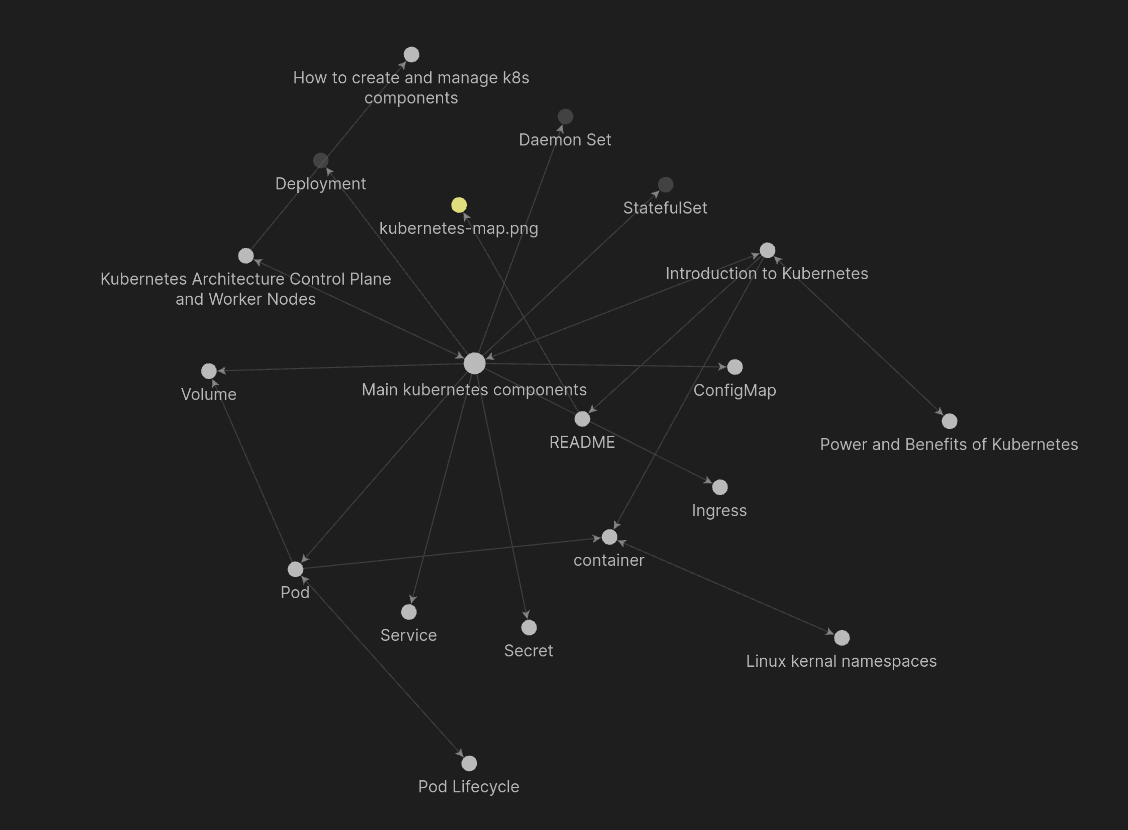
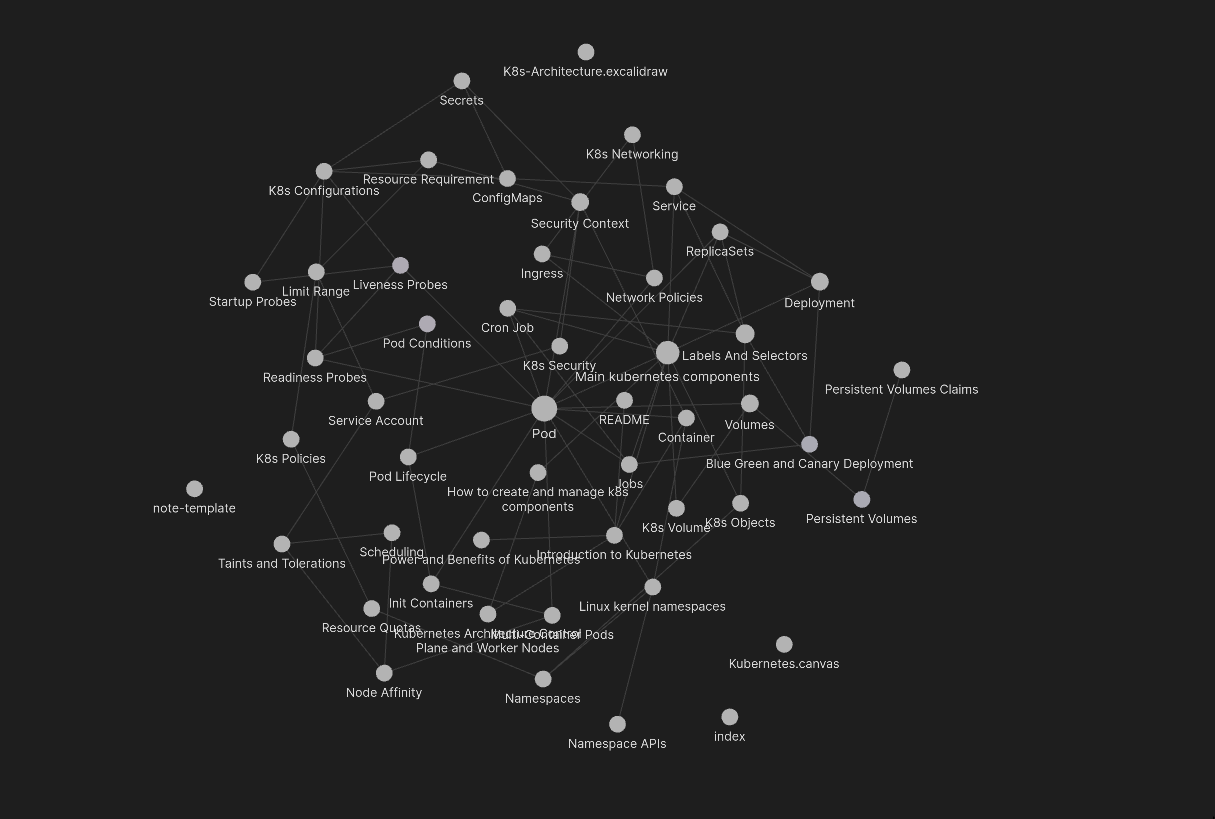
vault backup: 2025-05-14 22:03:36

diff --git a/Networking/Network Policies.md b/Networking/Network Policies.md
@@ -1,6 +1,107 @@
-
+___
+- Network Policies allows you to control how [[Pod]] communicate with each other and with other network entities
+___
+## Definitions:
+- Ingress traffic: Traffic coming into a pod
+- Egress traffic: Traffic leaving a pod
 
 ___
-⬅ [[]] | [[]] ➡
+## Why Network Policies?
+- By default, Kubernetes allows all traffic between pods, but by defining network policies can let you restrict this communication.
+- Let’s say the team wants to ensure:
+	- The frontend cannot access the database directly.
+	- Only the API server should be able to talk to the DB on port 3306.
+- This is where Network Policies comes into play. They allow you to:
+	- Define rules about who can send traffic to a pod (Ingress).    
+	- Define rules about where a pod can send traffic (Egress).
+___
+## How Network Policies Work
+
+- Network Policies are defined using:
+	- `podSelector`: Which pods the policy applies to
+	- `policyTypes`: Either `Ingress`, `Egress`, or both
+	- `rules`: Specific rules that allow traffic based on pod labels and ports
+- Important:
+	- Policies deny all traffic by default unless it is explicitly allowed.
+___
+## Example Use Case
+To allow only API server to talk to the DB server on port 3306:
+1. Label the DB server: `server=db`
+2. Label the API server: `server=api`
+3. Create a NetworkPolicy like:
+    
+
+```yaml
+apiVersion: networking.k8s.io/v1
+kind: NetworkPolicy
+metadata:
+  name: db-policy
+spec:
+  podSelector:
+    matchLabels:
+      server: db
+  policyTypes:
+  - Ingress
+  ingress:
+  - from:
+    - podSelector:
+        matchLabels:
+          server: api
+    ports:
+    - protocol: TCP
+      port: 3306
+```
+
+___
+## Granular NetworkPolicy
+
+- Above policy would allow any API pod with matching label in any namespace
+___
+#### Add `namespaceSelector`
+
+```yaml
+ingress:
+  - from:
+	- podSelector:
+	    matchLabels:
+	      server: api
+	- namespaceSelector:
+	    matchLabels:
+	      team: team-a
+```
+
+
+---
+
+#### Allow External Access
+
+- External sources can't be matched using pod/namespace selectors
+- Use `ipBlock` to allow access from an IP address 
+
+```yaml
+from:
+- ipBlock:
+    cidr: 192.168.5.10/32
+```
+
+___
+#### Common Mistake: Dashes Create New Rules
+- These are two (OR condition):
+```yaml
+from:
+- podSelector: {...}
+- namespaceSelector: {...}
+```
+
+- But below means both must be satisfied (AND condition):
+
+```yaml
+from:
+- podSelector: {...}
+  namespaceSelector: {...}
+```
+
+___
+⬅ [[]] | [[Ingress]] ➡
 ### References
-1.
+1. https://kubernetes.io/docs/concepts/services-networking/network-policies/

diff --git a/Core Concepts/Pods/Pod.md b/Core Concepts/Pods/Pod.md
@@ -13,11 +13,11 @@
 ### What are the benefits of running multiple containers in Pod? 
 ---
 - Consider a scenario where the main container in a pod is a web server that serves files from
-directory mounted as [[Volume]], while an additional container (a sidecar container) at regular interval downloads and store content in the web server’s directory. Thus forming a single cohesive unit of service. 
+directory mounted as [[Volumes]], while an additional container ([[Multi-Container Pods]]) at regular interval downloads and store content in the web server’s directory. Thus forming a single cohesive unit of service. 
 
 ### How are containers within a Pod able to share resource and communicate with each other?
 ---
-- When containers are created within a pod, they share the same network and UTS namespaces, meaning they all share the same hostname and network interfaces. This allows them to communicate with each other using the loopback interface (localhost). Similarly all containers of a pod share resources through storage volumes (mount namespace) and communicate through the IPC namespace.
+- When containers are created within a pod, they share the same network and UTS namespaces, meaning they all share the same hostname and network interfaces. This allows them to communicate with each other using the loopback interface (localhost). Similarly all containers of a pod share resources through storage volumes (mount namespace [[Linux kernel namespaces#Mount Namespace]]) and communicate through the IPC namespace [[Linux kernel namespaces#IPC Namespace]].
 ---
 ### How can containers share the same IP and Port space?
 - Containers in a pod run in same Network namespace, they share the same IP address and port space. This means that we cannot run the processes in containers of the same pod which has same port number or we'll run into port conflicts.

diff --git a/Networking/Ingress.md b/Networking/Ingress.md
@@ -1,8 +1,55 @@
+___
+## Problem
 
----
--  Prerequisite : [[]]
----
+- When you deploy multiple applications, exposing them to the internet in a cost-efficient as well as in secure way becomes tricky. Without Ingress, you either have to:
+1. Use multiple LoadBalancer services which will increase costs.
+2. Use NodePort services + external proxy which leads to a complex configuration.
+3. Deal with DNS, SSL, routing logic separately which is harder to manage.
 
-#### Next we're going to see [[]]
+___
+## Ingress to Rescue
+ - Its API object that manages external access to services within a cluster.
+ - It allows you to define rules for routing traffic based on hostnames or URL paths.
+
+
+___
+## Core Components of Ingress
+
+1. Ingress Resource : These are rules that specify how to route external traffic to internal services.
+2. Ingress Controller: A component that implements the Ingress rules. Kubernetes as a project supports and maintains AWS, GCE and nginx ingress controllers.
+
+
+```yaml
+apiVersion: networking.k8s.io/v1
+kind: Ingress
+metadata:
+  name: ingress-example
+  annotations:
+    nginx.ingress.kubernetes.io/rewrite-target: /
+spec:
+  rules:
+  - host: myapp.com
+    http:
+      paths:
+      - path: /api
+        pathType: Prefix
+        backend:
+          service:
+            name: api-service
+            port:
+              number: 80
+      - path: /web
+        pathType: Prefix
+        backend:
+          service:
+            name: web-service
+            port:
+              number: 80
+
+```
+
+
+___
+⬅ [[]] | [[]] ➡
 ### References
 1.

diff --git a/Volumes/Persistent Volumes.md b/Volumes/Persistent Volumes.md
@@ -1,0 +1,47 @@
+___
+## Problem with Volumes
+- When working in large setup, using [[Volumes]] directly defined inside the pod spec can be challenging to manage
+- If the underlying storage changed, all pod definitions needed updates.
+___
+## Solution
+-  Persistent Volumes allows us to centralise and decouple storage configuration from pod specs.
+
+___
+## What is it
+
+- It is a cluster-wide resource that provides abstracted, reusable storage for users.
+- Configured with:
+	-  Access Modes: How the volume can be accessed
+	    -  'ReadWriteOnce' - one node can mount read/write
+	    -  'ReadOnlyMany' - many nodes can mount read-only
+	    - 'ReadWriteMany' - many nodes can mount read/write
+  - Capacity: how much storage is available
+  - Storage backend: can be local (`hostPath`) or remote (e.g., NFS, AWS EBS, etc.)
+
+---
+
+## Example:
+
+```yaml
+apiVersion: v1
+kind: PersistentVolume
+metadata:
+  name: pv-vol1
+spec:
+  capacity:
+    storage: 1Gi
+  accessModes:
+    - ReadWriteOnce
+  hostPath:
+    path: /data
+```
+___
+## Commands
+1. create persistent volumes
+>`kubectl create -f pv-definition.yml` 
+2. get persistent volumes
+> `kubectl get pv`
+___
+⬅ [[Volumes]] | [[Persistent Volumes Claims]] ➡
+### References
+1. https://kubernetes.io/docs/concepts/storage/persistent-volumes/

diff --git a/Volumes/Volumes.md b/Volumes/Volumes.md
@@ -1,0 +1,43 @@
+___
+## In Docker
+- when a container is destroyed its data is lost
+- docker uses volumes to persist data which are directories on the host mounted into the container. (Bind Mount)
+___
+## In Kubernetes
+- Similarly, when a [[Pod]] is destroyed its data is lost
+- [[Volumes]] allow data to persist beyond the life of a pod.
+___
+## How Volumes Works
+
+- Attach a volume to a pod and mount it into the container.
+- Example: 
+	  - Attach  `/data` on Pod using `hostPath` field.
+	  - Mount the volume to '/opt' in the container.
+
+```yaml
+apiVersion: v1
+kind: Pod
+metadata:
+  name: my-first-volume
+spec:
+  containers:
+  - name: example-container
+    image: registry.k8s.io/test-webserver
+    volumeMounts:
+    - mountPath: /opt
+      name: example-volume
+  volumes:
+  - name: example-volume
+    hostPath:
+      path: /data # directory location on host
+```
+___
+##  Limitations of `hostPath`
+
+- Works only in single-node clusters.
+- In a multi-node cluster, using `hostPath` leads to inconsistency:
+	- Each node has its own separate `/data` dir.
+___
+⬅ [[]] | [[Persistent Volumes]] ➡
+### References
+1. https://kubernetes.io/docs/concepts/storage/volumes/

diff --git a/Blue Green and Canary Deployment.md b/Blue Green and Canary Deployment.md
@@ -10,22 +10,19 @@ ___
     1. Deploy green version (new deployment)
     2. Run tests on green version
     3. Once satisfied, switch traffic from blue to green
-        
+___
 ## How to switch
-
 - Pods have labels like `version: v1` or `version: v2`
 - Service routes traffic using label selectors
     - Initially: `selector: version=v1`    
     - After testing: change to `selector: version=v2`
 - Now the service routes all traffic to the green (new) deployment
-
 ___
 ## Canary Deployment
 
 - Canary deployment allows you deploy a new version of the app is deployed alongside the existing version.
 - Only a small portion of the traffic is routed to the new version while the majority stays to on the stable version
 - This allows testing the new version with real traffic before fully rolling it out.
-
 ___
 ## Limitation
 - Traffic splitting is based on the number of pods.

diff --git a/Core Concepts/Deployment.md b/Core Concepts/Deployment.md
@@ -47,7 +47,6 @@ ___
 ## Commands
 1. create deployment
 >`kubectl create -f deployment-definition.yml` 
-
 2. get deplotment
 > `kubectl get deployments`
 3. describe deployment

diff --git a/Core Concepts/Main kubernetes components.md b/Core Concepts/Main kubernetes components.md
@@ -3,7 +3,7 @@
 3) [[Deployment]]
 4) [[Service]]
 5) [[Ingress]]
-6) [[Volume]]
+6) [[K8s Volume]]
 7) [[Jobs]]
 8) [[Cron Job]]
 9) [[StatefulSet]]  

diff --git a/Volumes/K8s Volume.md b/Volumes/K8s Volume.md
@@ -1,6 +1,5 @@
+1. [[Volumes]]
 
----
--  Prerequisite : [[]]
 ---
 
 #### Next we're going to see [[]]
